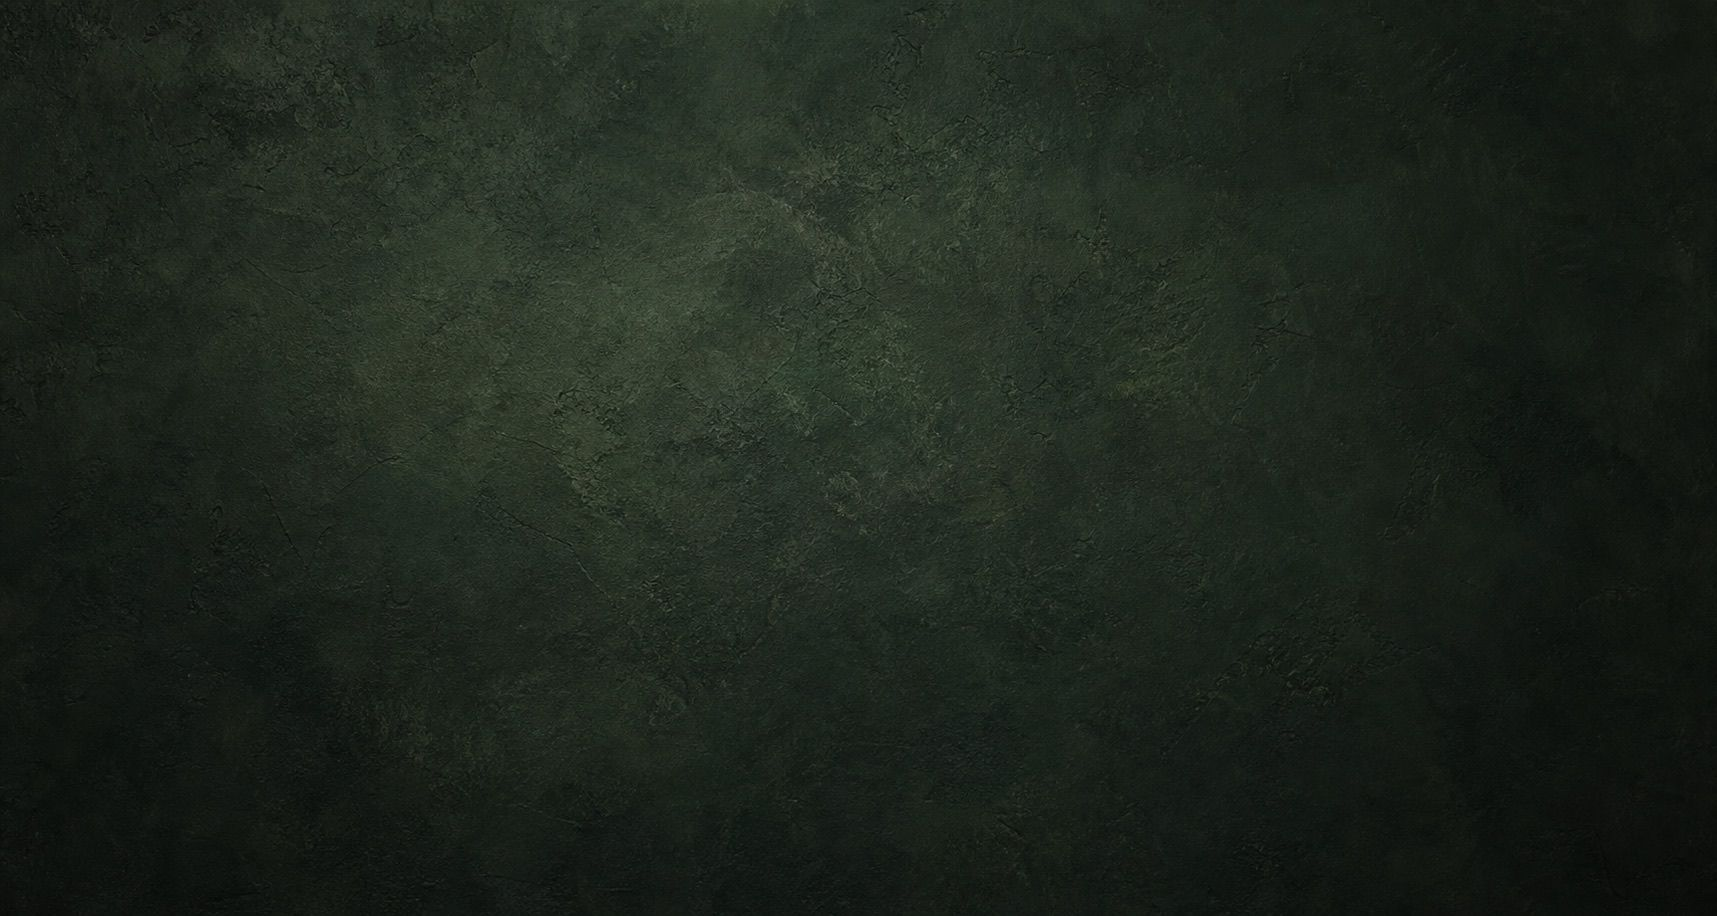
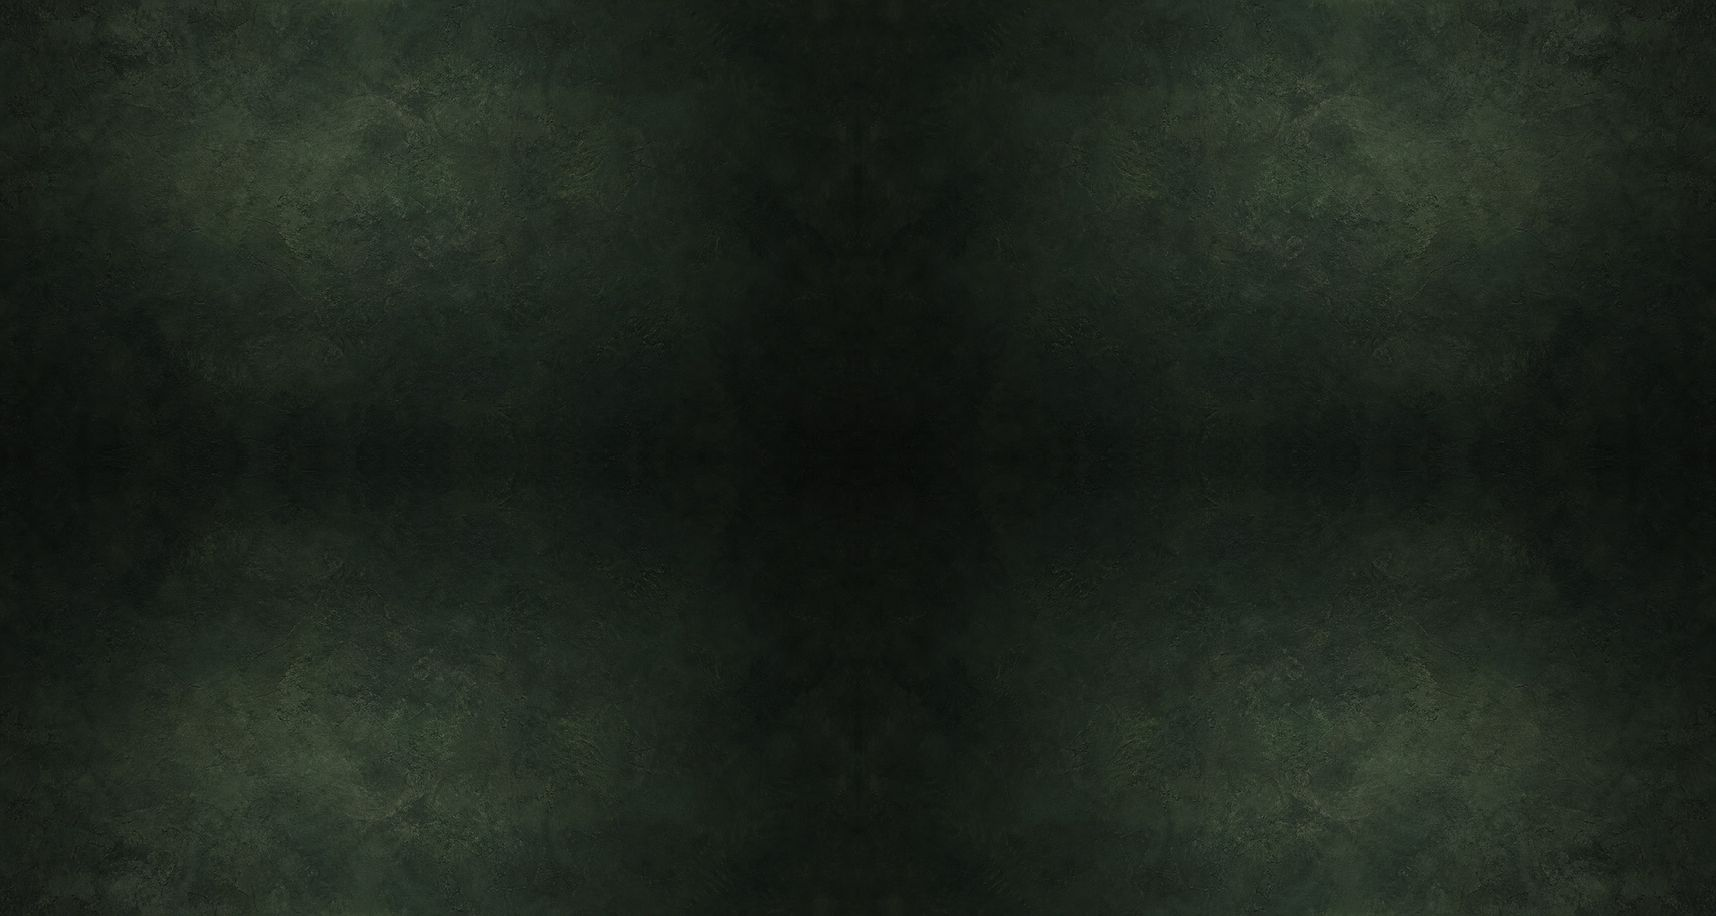
Fix texture grid: seamless mirror-tiled assets
Repeating a non-seamless texture painted visible tile edges. Assets are
now mirror-tiled (every edge mathematically continuous) and verified
seam-free at full resolution.

diff --git a/aligned-client-engine/index.html b/aligned-client-engine/index.html
@@ -254,7 +254,7 @@ a:focus-visible,summary:focus-visible,.btn:focus-visible{
 .wall{
   background:
     linear-gradient(180deg, rgba(248,246,242,0.89), rgba(248,246,242,0.94)),
-    url('assets/section-bg-pale.jpg') top left / 858px 458px repeat,
+    url('assets/section-bg-pale.jpg') top left / 1716px 916px repeat,
     var(--sand);
   padding:clamp(100px,10vw,112px) 0 clamp(72px,7vw,84px);
   border-top:1px solid rgba(91,75,63,0.12);
@@ -288,7 +288,7 @@ header.top img{height:28px;width:auto;}
   background:
     radial-gradient(1100px 620px at 85% 4%, rgba(194,168,108,0.22), rgba(194,168,108,0) 60%),
     linear-gradient(180deg, rgba(248,246,242,0.88), rgba(248,246,242,0.93)),
-    url('assets/section-bg-pale.jpg') top left / 858px 458px repeat,
+    url('assets/section-bg-pale.jpg') top left / 1716px 916px repeat,
     var(--sand);
   padding:clamp(40px,4.5vw,60px) 0 clamp(48px,5vw,64px);
   overflow:hidden;
@@ -393,7 +393,7 @@ header.top img{height:28px;width:auto;}
   padding:68px 0 clamp(80px,7.5vw,92px);
   background:
     linear-gradient(180deg, rgba(248,246,242,0.88), rgba(248,246,242,0.93)),
-    url('assets/section-bg-pale.jpg') top left / 858px 458px repeat,
+    url('assets/section-bg-pale.jpg') top left / 1716px 916px repeat,
     var(--sand);
 }
 .letter .narrow p{margin-bottom:1.5em;}
@@ -424,7 +424,7 @@ header.top img{height:28px;width:auto;}
 .why{
   background:
     linear-gradient(180deg, rgba(233,226,211,0.86), rgba(233,226,211,0.92)),
-    url('assets/section-bg-warm.jpg') top left / 858px 458px repeat,
+    url('assets/section-bg-warm.jpg') top left / 1716px 916px repeat,
     var(--stone);
   padding:clamp(96px,8.5vw,108px) 0;
   position:relative;
@@ -496,7 +496,7 @@ header.top img{height:28px;width:auto;}
   padding:clamp(100px,9vw,112px) 0;
   background:
     linear-gradient(180deg, rgba(248,246,242,0.88), rgba(248,246,242,0.93)),
-    url('assets/section-bg-pale.jpg') top left / 858px 458px repeat,
+    url('assets/section-bg-pale.jpg') top left / 1716px 916px repeat,
     var(--sand);
 }
 .part-grid{
@@ -533,7 +533,7 @@ header.top img{height:28px;width:auto;}
 .story{
   background:
     linear-gradient(180deg, rgba(233,226,211,0.86), rgba(233,226,211,0.92)),
-    url('assets/section-bg-warm.jpg') top left / 858px 458px repeat,
+    url('assets/section-bg-warm.jpg') top left / 1716px 916px repeat,
     var(--stone);
   padding:clamp(100px,9vw,112px) 0;
   position:relative;
@@ -594,7 +594,7 @@ header.top img{height:28px;width:auto;}
 .stat-panel{
   background:
     linear-gradient(180deg, rgba(44,63,54,0.88), rgba(36,53,48,0.94)),
-    url('assets/section-bg-forest.jpg') top left / 858px 458px repeat,
+    url('assets/section-bg-forest.jpg') top left / 1716px 916px repeat,
     var(--forest);
   padding:clamp(36px,4vw,50px) clamp(32px,4vw,48px);
   margin:44px 0;
@@ -634,7 +634,7 @@ header.top img{height:28px;width:auto;}
   background:
     radial-gradient(1050px 580px at 50% 0%, rgba(194,168,108,0.2), rgba(194,168,108,0) 64%),
     linear-gradient(180deg, rgba(248,246,242,0.9) 0%, rgba(243,238,226,0.94) 100%),
-    url('assets/section-bg-pale.jpg') top left / 858px 458px repeat,
+    url('assets/section-bg-pale.jpg') top left / 1716px 916px repeat,
     var(--sand);
   text-align:center;
   position:relative;
@@ -711,7 +711,7 @@ header.top img{height:28px;width:auto;}
   padding:clamp(100px,9vw,112px) 0;
   background:
     linear-gradient(180deg, rgba(248,246,242,0.88), rgba(248,246,242,0.93)),
-    url('assets/section-bg-pale.jpg') top left / 858px 458px repeat,
+    url('assets/section-bg-pale.jpg') top left / 1716px 916px repeat,
     var(--sand);
 }
 .week-track{position:relative;max-width:880px;margin:0 auto;}
@@ -780,7 +780,7 @@ header.top img{height:28px;width:auto;}
 .included{
   background:
     linear-gradient(180deg, rgba(233,226,211,0.86), rgba(233,226,211,0.92)),
-    url('assets/section-bg-warm.jpg') top left / 858px 458px repeat,
+    url('assets/section-bg-warm.jpg') top left / 1716px 916px repeat,
     var(--stone);
   padding:clamp(100px,9vw,112px) 0;
   position:relative;
@@ -822,7 +822,7 @@ header.top img{height:28px;width:auto;}
   padding:clamp(100px,9vw,112px) 0;
   background:
     linear-gradient(180deg, rgba(248,246,242,0.88), rgba(248,246,242,0.93)),
-    url('assets/section-bg-pale.jpg') top left / 858px 458px repeat,
+    url('assets/section-bg-pale.jpg') top left / 1716px 916px repeat,
     var(--sand);
 }
 .who-grid{display:grid;grid-template-columns:1fr 1fr;gap:32px;align-items:start;}
@@ -890,7 +890,7 @@ header.top img{height:28px;width:auto;}
   background:
     radial-gradient(1100px 600px at 50% 100%, rgba(194,168,108,0.16), rgba(194,168,108,0) 60%),
     linear-gradient(180deg, rgba(233,226,211,0.86), rgba(233,226,211,0.92)),
-    url('assets/section-bg-warm.jpg') top left / 858px 458px repeat,
+    url('assets/section-bg-warm.jpg') top left / 1716px 916px repeat,
     var(--stone);
 }
 .g-card{
@@ -1031,7 +1031,7 @@ header.top img{height:28px;width:auto;}
   padding:clamp(100px,9vw,112px) 0;
   background:
     linear-gradient(180deg, rgba(248,246,242,0.88), rgba(248,246,242,0.93)),
-    url('assets/section-bg-pale.jpg') top left / 858px 458px repeat,
+    url('assets/section-bg-pale.jpg') top left / 1716px 916px repeat,
     var(--sand);
 }
 .faq-list{max-width:840px;margin:0 auto;}
@@ -1076,7 +1076,7 @@ details.qa .answer p:last-child{margin-bottom:0;}
 .final{
   background:
     linear-gradient(180deg, rgba(233,226,211,0.86), rgba(233,226,211,0.92)),
-    url('assets/section-bg-warm.jpg') top left / 858px 458px repeat,
+    url('assets/section-bg-warm.jpg') top left / 1716px 916px repeat,
     var(--stone);
   padding:clamp(110px,9.5vw,120px) 0 clamp(100px,9vw,108px);
   position:relative;
